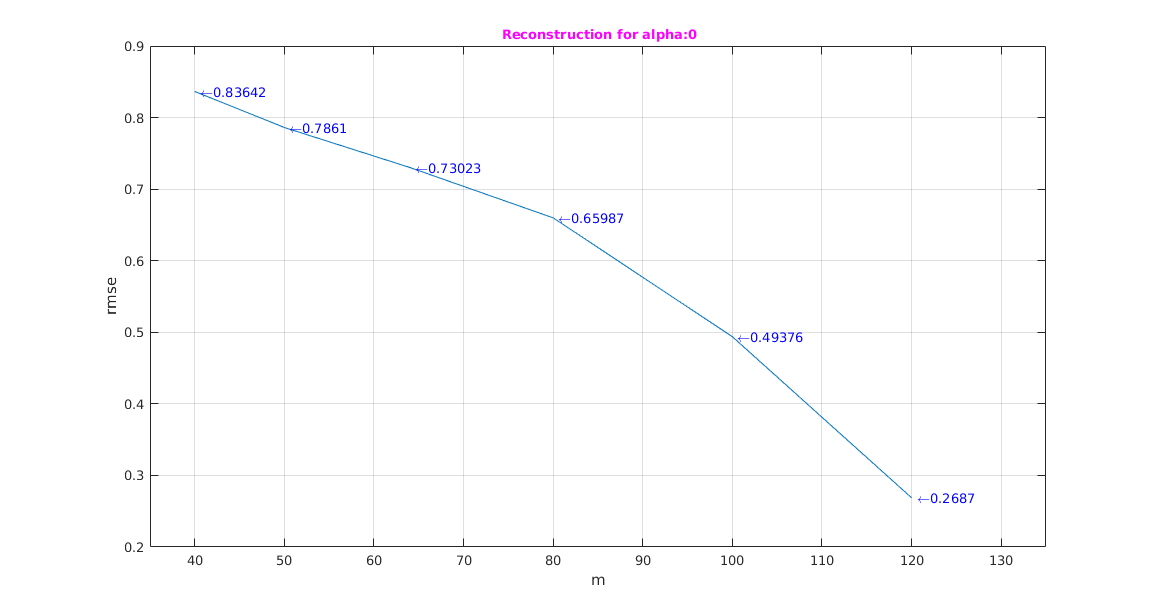
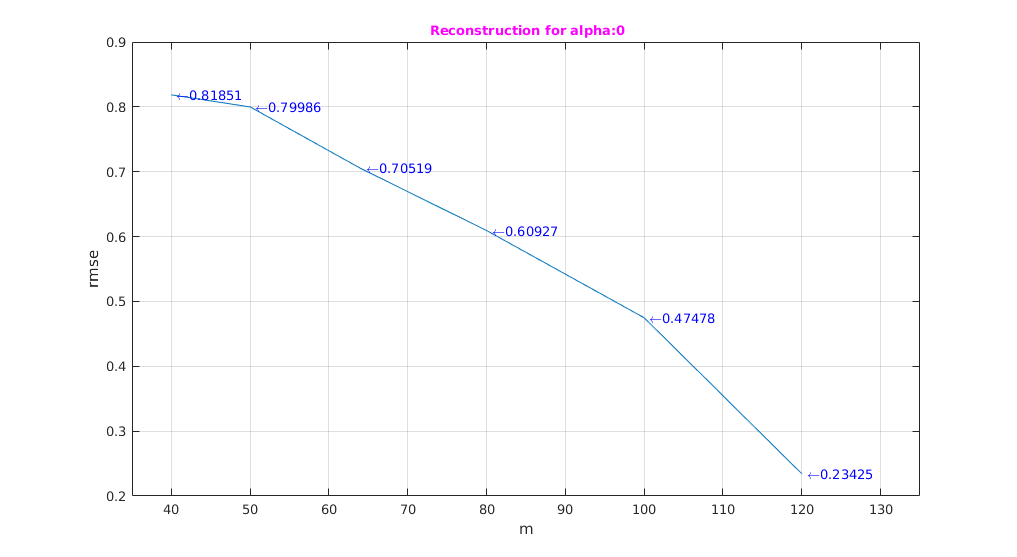
assign5-5- completed

diff --git a/Assignment 5/5/code/html/MyMainScript.html b/Assignment 5/5/code/html/MyMainScript.html
@@ -66,7 +66,7 @@ table td { padding:7px 5px; text-align:left; vertical-align:top; border:1px soli
 
 
 
-  </style></head><body><div class="content"><h1>MAP Estimate</h1><!--introduction--><p>Assignment 5-5</p><p>Rollno: 163059009, 16305R011</p><!--/introduction--><h2>Contents</h2><div><ul><li><a href="#1">Init</a></li><li><a href="#2">1 Init With aplha as "3"</a></li><li><a href="#3">1.1 Generating 10 x</a></li><li><a href="#4">1.2 Finding Compressive measurement</a></li><li><a href="#5">1.3 Plot</a></li><li><a href="#6">2 Init With aplha as "0"</a></li><li><a href="#7">2.1 Generating 10 x</a></li><li><a href="#8">2.2 Finding Compressive measurement</a></li><li><a href="#9">2.3 Plot</a></li><li><a href="#10">3. Combined Plot for alpha:3 and 0</a></li></ul></div><h2>Init<a name="1"></a></h2><pre class="codeinput">clear <span class="string">all</span>;
+  </style></head><body><div class="content"><h1>MAP Estimate</h1><!--introduction--><p>Assignment 5-5</p><p>Rollno: 163059009, 16305R011</p><!--/introduction--><h2>Contents</h2><div><ul><li><a href="#1">Init</a></li><li><a href="#2">1 Init With aplha as "3"</a></li><li><a href="#3">1.1 Generating 10 x</a></li><li><a href="#4">1.2 Finding Compressive measurement</a></li><li><a href="#5">1.3 Plot</a></li><li><a href="#6">2 Init With aplha as "3"</a></li><li><a href="#7">2.1 Generating 10 x</a></li><li><a href="#8">2.2 Finding Compressive measurement</a></li><li><a href="#9">2.3 Plot</a></li><li><a href="#10">3. Combined Plot for alpha:3 and 0</a></li></ul></div><h2>Init<a name="1"></a></h2><pre class="codeinput">clear <span class="string">all</span>;
 n=128;
 noOfX=10;
 m = [40, 50, 64, 80, 100, 120];
@@ -108,7 +108,7 @@ ylabel(<span class="string">'rmse'</span>);
 xlim([min(m)-5,max(m)+15]),
 grid <span class="string">on</span>,
 hold <span class="string">off</span>;
-</pre><img vspace="5" hspace="5" src="MyMainScript_01.png" alt=""> <h2>2 Init With aplha as "0"<a name="6"></a></h2><pre class="codeinput">alpha=0;
+</pre><img vspace="5" hspace="5" src="MyMainScript_01.png" alt=""> <h2>2 Init With aplha as "3"<a name="6"></a></h2><pre class="codeinput">alpha=0;
 </pre><h2>2.1 Generating 10 x<a name="7"></a></h2><pre class="codeinput">mu=zeros(1,n);
 [ mvcovar ] = multivarientCoVar(n,alpha);
 rng(1)

diff --git a/Assignment 5/5/code/genCM.m b/Assignment 5/5/code/genCM.m
@@ -13,9 +13,10 @@ function [y,phi,stdev] = genCM(X,m,n)
     normSum=0;
     for i=1:noOfSample
         tempY=phi*X(i,:)';
-        normSum=normSum+norm(tempY,1);       
+        normSum=normSum+mean(tempY,1);       
     end
-    stdev=f*(1/(m*noOfSample))*normSum;
+    stdev=f*(1/(noOfSample))*abs(normSum);
+    
     for i=1:noOfSample
         tempY=phi*X(i,:)';
         noise=randn(m,1).*stdev;        

diff --git a/Assignment 5/5/code/MyMainScript.m b/Assignment 5/5/code/MyMainScript.m
@@ -46,7 +46,7 @@ ylabel('rmse');
 xlim([min(m)-5,max(m)+15]),
 grid on,
 hold off;
-%% 2 Init With aplha as "3"
+%% 2 Init With aplha as "0"
 alpha=0;
 %% 2.1 Generating 10 x
 mu=zeros(1,n);
